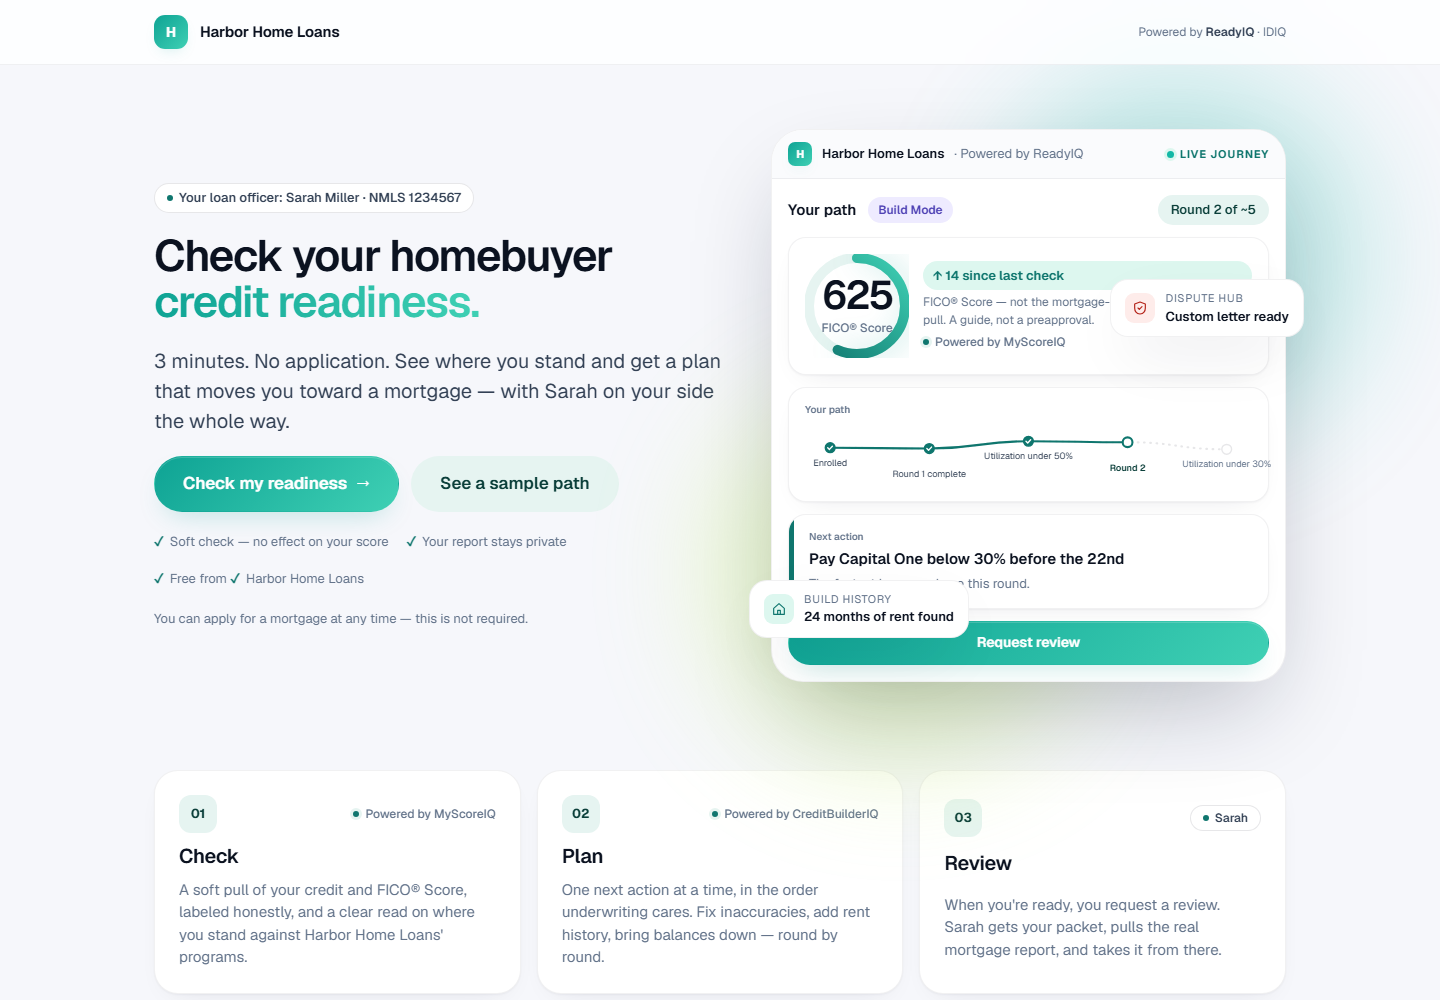
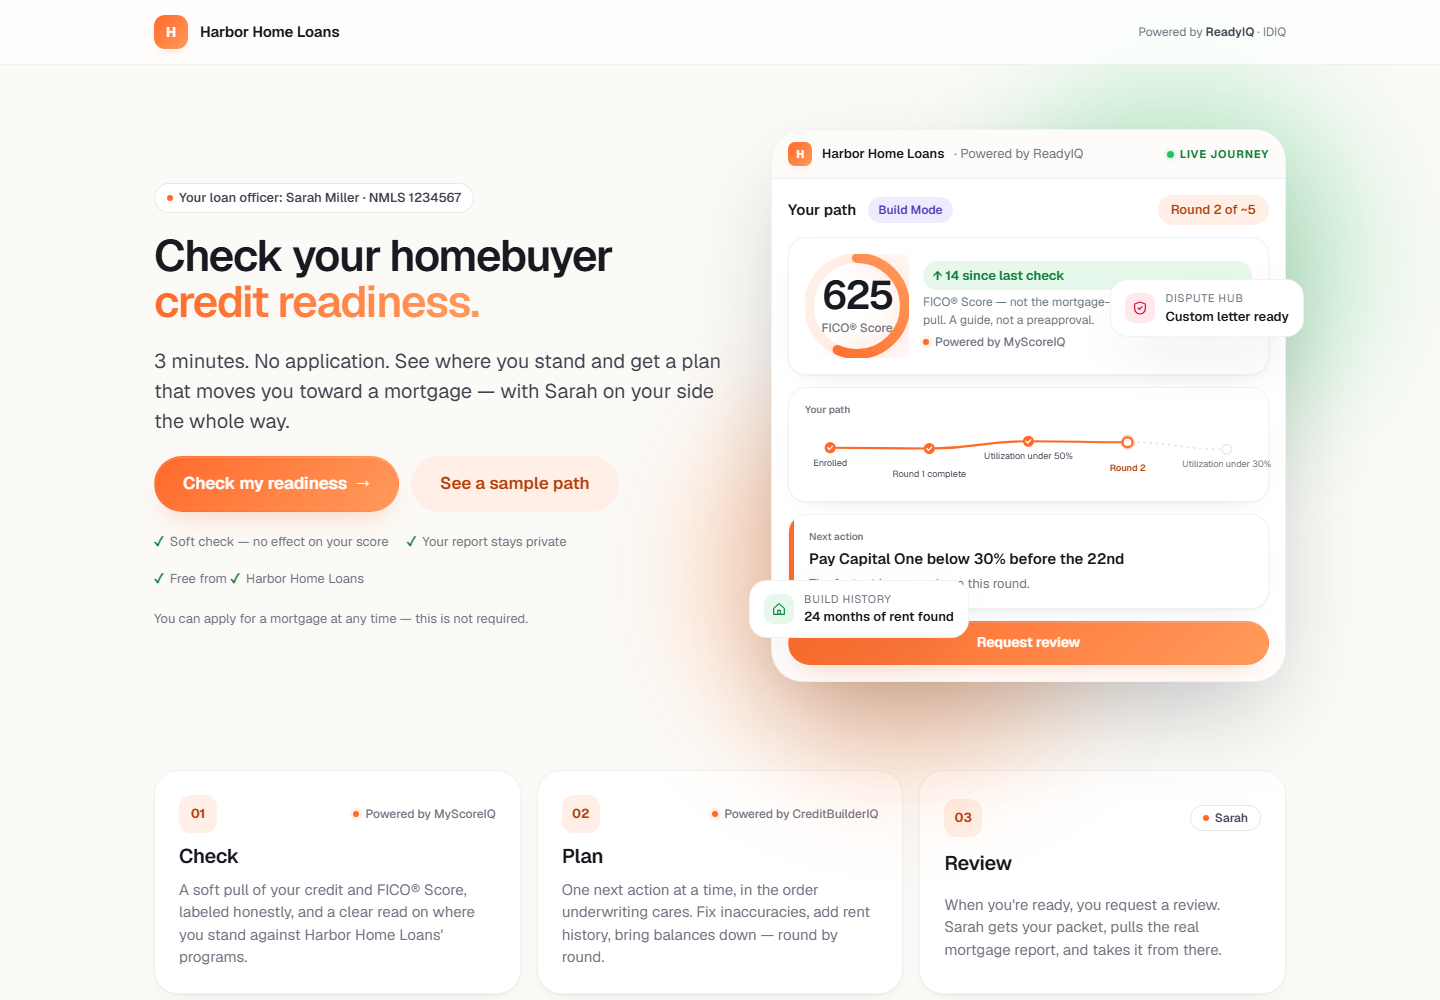
feat(design v4): terra-orange brand with gradient, warm white canvas, charcoal ink + dark sections, bright green positive accent, rose disputes; applyBrand sets the full brand token set

diff --git a/site/index.html b/site/index.html
@@ -114,9 +114,9 @@
     </div>
     <div class="stage">
       <div class="platform" aria-hidden="true">
-        <div class="platform-bar"><span class="brand-mark" style="background:#0F766E">H</span><b style="color:var(--ink)">Harbor Home Loans</b><span class="platform-live">Live journey</span></div>
+        <div class="platform-bar"><span class="brand-mark" style="background:#FF6A2B">H</span><b style="color:var(--ink)">Harbor Home Loans</b><span class="platform-live">Live journey</span></div>
         <div class="platform-body">
-          <div class="platform-context"><span class="avatar" style="background:#E1F2EE;color:#0B3F3A">MD</span><div><small>Your path</small><b>Maria Delgado</b><div class="small muted">Invited by Sarah Miller · NMLS 1234567</div></div><span class="badge badge-build">Build Mode</span></div>
+          <div class="platform-context"><span class="avatar" style="background:#FFEFE6;color:#B4400E">MD</span><div><small>Your path</small><b>Maria Delgado</b><div class="small muted">Invited by Sarah Miller · NMLS 1234567</div></div><span class="badge badge-build">Build Mode</span></div>
           <div class="card card-pad" style="padding:14px;display:grid;grid-template-columns:auto 1fr;gap:14px;align-items:center"><div id="hero-ring"></div><div class="stack-1"><span class="number-delta up">↑ 14 since last check</span><p class="number-caption" style="font-size:12px">FICO® Score — not the mortgage-industry version lenders pull. A guide, not a preapproval.</p><span class="engine-tag">Powered by MyScoreIQ</span></div></div>
           <div class="grid-2" style="gap:10px">
             <div class="card card-pad" style="padding:12px 14px;display:grid;gap:4px"><span class="eyebrow" style="font-size:10px">Dispute Hub</span><b>Duplicate collection</b><span class="small muted">Custom letter ready · Experian + TransUnion</span><span class="pill pill-draft" style="justify-self:start">draft</span></div>
@@ -124,7 +124,7 @@
           </div>
           <div class="card card-pad" style="padding:12px 14px"><span class="eyebrow" style="font-size:10px">Your path</span><div id="hero-path"></div></div>
         </div>
-        <div class="platform-return"><span class="avatar" style="background:#0F766E;color:#fff">SM</span><div><small>Original LO protected</small><b>Milestones route back to Sarah Miller</b></div><span class="chip"><span class="dot"></span>ReadyIQ → Total Expert</span></div>
+        <div class="platform-return"><span class="avatar" style="background:#FF6A2B;color:#fff">SM</span><div><small>Original LO protected</small><b>Milestones route back to Sarah Miller</b></div><span class="chip"><span class="dot"></span>ReadyIQ → Total Expert</span></div>
       </div>
       <div class="float-label float-a"><i class="tone-coral"><svg viewBox="0 0 24 24" width="16" height="16" fill="none" stroke="currentColor" stroke-width="1.75" stroke-linecap="round" stroke-linejoin="round"><path d="M12 3l8 3v6c0 5-3.5 8.5-8 9-4.5-.5-8-4-8-9V6l8-3zM9 12l2 2 4-4"/></svg></i><div><small>Dispute Hub</small><b>Custom letter ready</b></div></div>
       <div class="float-label float-b"><i class="tone-mint"><svg viewBox="0 0 24 24" width="16" height="16" fill="none" stroke="currentColor" stroke-width="1.75" stroke-linecap="round" stroke-linejoin="round"><path d="M4 11l8-7 8 7v9H4z M10 20v-6h4v6"/></svg></i><div><small>Build history</small><b>24 months of rent found</b></div></div>
@@ -176,12 +176,12 @@
   <div class="stack-4"><p class="kicker accent">The consumer experience</p><h2 class="h1">Your invitation. Your brand. <em>Their private path forward.</em></h2><p class="lead">Consumers arrive through your website or a personal link, complete their own permissioned check in three screens, and use a lender-branded portal to dispute, build, and track — until they ask their loan officer for a review.</p>
     <div class="row wrap"><a class="btn btn-primary" href="check/?c=harbor-smiller">Open a personal invitation <span class="arrow">→</span></a><a class="btn btn-outline" href="portal/">Open the portal</a></div></div>
   <div class="phone" aria-hidden="true">
-    <div class="row-between"><span class="row" style="gap:8px"><span class="brand-mark" style="width:22px;height:22px;font-size:11px;background:#0F766E">H</span><b class="small">Harbor Home Loans</b></span><span class="small muted">Powered by ReadyIQ</span></div>
+    <div class="row-between"><span class="row" style="gap:8px"><span class="brand-mark" style="width:22px;height:22px;font-size:11px;background:#FF6A2B">H</span><b class="small">Harbor Home Loans</b></span><span class="small muted">Powered by ReadyIQ</span></div>
     <span class="chip chip-round" style="justify-self:start">Personal invitation · Sarah Miller</span>
     <h3 class="h3">Sarah invited you to check your credit readiness.</h3>
     <p class="small muted">See where your credit stands, get a plan, and stay connected to Sarah — without applying for anything today.</p>
     <div class="card card-pad" style="padding:12px;display:grid;grid-template-columns:auto 1fr;gap:12px;align-items:center"><div id="phone-ring"></div><div><span class="eyebrow" style="font-size:10px">Readiness snapshot</span><div class="small muted">FICO® Score · a guide, not a preapproval</div></div></div>
-    <a class="btn btn-primary btn-block" style="background:#0F766E" href="check/?c=harbor-smiller">Accept invitation →</a>
+    <a class="btn btn-primary btn-block" style="background:#FF6A2B" href="check/?c=harbor-smiller">Accept invitation →</a>
     <p class="reg-b" style="font-size:11px">You can apply for a mortgage at any time — this is not required.</p>
   </div>
 </div></section>

diff --git a/site/assets/css/tokens.css b/site/assets/css/tokens.css
@@ -1,35 +1,35 @@
-/* ReadyIQ 2 — design tokens v3 ("new gen"): near-white canvas, vivid brand, gradient accents, soft depth.
+/* ReadyIQ 2 — design tokens v4: warm white canvas, charcoal ink, terra-orange brand with gradient, bright green positive accent, rose for disputes.
    Two layers on one system: default = ReadyIQ layer; [data-brand=harbor] = the sample lender (consumer pages). */
 :root {
   /* neutrals — cool, not green */
-  --canvas: #F6F7FB; --surface: #FFFFFF; --surface-2: #FAFBFD;
-  --ink: #0B1220; --ink-2: #334155; --ink-3: #64748B; --ink-4: #94A3B8;
-  --line: rgba(15, 23, 42, .10); --line-2: rgba(15, 23, 42, .06);
+  --canvas: #FBFAF7; --surface: #FFFFFF; --surface-2: #FDFCFA;
+  --ink: #171A20; --ink-2: #3E4350; --ink-3: #6F7581; --ink-4: #9CA1AB;
+  --line: rgba(23, 26, 32, .10); --line-2: rgba(23, 26, 32, .06);
   --paper: var(--canvas); --paper-2: var(--surface-2); --white: #FFFFFF;
 
   /* ReadyIQ brand */
-  --navy: #0B1220; --deep: #070B14; --slate: #111A2E;
-  --lime: #C8F36D; --lime-2: #E4FF9C; --lime-ink: #1E3A0A;
-  --mint: #DDF7EF; --teal: #14B8A6; --teal-ink: #0F766E;
-  --purple: #7C6CF6; --purple-soft: #EEEBFF;
-  --coral: #F97066; --coral-soft: #FEECEA;
-  --gold: #F5B84B; --gold-soft: #FEF3DC;
+  --navy: #17141A; --deep: #0F0D12; --slate: #23202A;
+  --lime: #FF7A2E; --lime-2: #FFB067; --lime-ink: #2B1206;
+  --mint: #E6F8EC; --teal: #22C55E; --teal-ink: #15803D;
+  --purple: #7C6CF6; --purple-soft: #EFEBFF;
+  --coral: #F43F5E; --coral-soft: #FFE7EB;
+  --gold: #F59E0B; --gold-soft: #FEF3DC;
   --blue: #3B82F6; --blue-soft: #E8F0FE;
   --idiq-navy: #12384F; --idiq-orange: #F27124;
 
   /* brand (overridden per lender) */
-  --brand: #0F172A; --brand-2: #334155;
-  --brand-soft: #EEF2FF; --brand-ink: #0B1220;
-  --brand-glow: rgba(15, 23, 42, .22);
-  --brand-grad: linear-gradient(135deg, #0F172A 0%, #334155 100%);
+  --brand: #F2521C; --brand-2: #FF8A3D;
+  --brand-soft: #FFEDE3; --brand-ink: #9A2F08;
+  --brand-glow: rgba(242, 82, 28, .32);
+  --brand-grad: linear-gradient(135deg, #F2521C 0%, #FF8A3D 100%);
   --accent: var(--lime); --accent-2: var(--lime-2); --accent-ink: var(--lime-ink);
   --accent-grad: linear-gradient(135deg, var(--lime) 0%, var(--lime-2) 100%);
-  --text-grad: linear-gradient(90deg, #C8F36D 0%, #7DE2C8 100%);
+  --text-grad: linear-gradient(90deg, #FF7A2E 0%, #FFB067 100%);
 
   /* semantic */
-  --success: #0F766E; --success-soft: #DDF7EF;
+  --success: #15803D; --success-soft: #E6F8EC;
   --warn: #B45309; --warn-soft: #FEF3DC;
-  --danger: #B42318; --danger-soft: #FEECEA;
+  --danger: #BE123C; --danger-soft: #FFE7EB;
   --info: #1D4ED8; --info-soft: #E8F0FE;
 
   /* type */
@@ -41,10 +41,10 @@
   --sp-1: 4px; --sp-2: 8px; --sp-3: 12px; --sp-4: 16px; --sp-5: 20px; --sp-6: 24px;
   --sp-8: 32px; --sp-10: 40px; --sp-12: 48px; --sp-16: 64px; --sp-20: 80px; --sp-24: 96px;
   --r-1: 14px; --r-2: 18px; --r-3: 24px; --r-4: 32px; --r-pill: 999px;
-  --sh-1: 0 1px 2px rgba(15, 23, 42, .04), 0 1px 1px rgba(15, 23, 42, .02);
-  --sh-2: 0 12px 32px -12px rgba(15, 23, 42, .12);
-  --sh-3: 0 24px 64px -20px rgba(15, 23, 42, .18);
-  --sh-4: 0 40px 100px -24px rgba(15, 23, 42, .28);
+  --sh-1: 0 1px 2px rgba(23, 26, 32, .04), 0 1px 1px rgba(23, 26, 32, .02);
+  --sh-2: 0 12px 32px -12px rgba(23, 26, 32, .12);
+  --sh-3: 0 24px 64px -20px rgba(23, 26, 32, .18);
+  --sh-4: 0 40px 100px -24px rgba(23, 26, 32, .28);
 
   /* motion */
   --ease: cubic-bezier(.2, .7, .2, 1);
@@ -56,20 +56,20 @@
 
 /* the sample lender — vivid teal with a mint gradient partner */
 [data-brand="harbor"] {
-  --brand: #0EA394; --brand-2: #3FD0B4;
-  --brand-soft: #E3F8F3; --brand-ink: #085F56;
-  --brand-glow: rgba(14, 163, 148, .28);
-  --brand-grad: linear-gradient(135deg, #0EA394 0%, #3FD0B4 100%);
-  --accent: #0EA394; --accent-2: #3FD0B4; --accent-ink: #FFFFFF;
-  --accent-grad: linear-gradient(135deg, #0EA394 0%, #3FD0B4 100%);
-  --text-grad: linear-gradient(90deg, #0EA394 0%, #3FD0B4 100%);
+  --brand: #FF6A2B; --brand-2: #FF9A5C;
+  --brand-soft: #FFEFE6; --brand-ink: #B4400E;
+  --brand-glow: rgba(255, 106, 43, .34);
+  --brand-grad: linear-gradient(135deg, #FF6A2B 0%, #FF9A5C 100%);
+  --accent: #FF6A2B; --accent-2: #FF9A5C; --accent-ink: #FFFFFF;
+  --accent-grad: linear-gradient(135deg, #FF6A2B 0%, #FF9A5C 100%);
+  --text-grad: linear-gradient(90deg, #FF5A1F 0%, #FFA05C 100%);
 }
 [data-brand="readyiq"] {
-  --brand: #0F172A; --brand-2: #334155; --brand-soft: #EEF2FF; --brand-ink: #0B1220;
-  --brand-glow: rgba(15, 23, 42, .22); --brand-grad: linear-gradient(135deg, #0F172A 0%, #334155 100%);
+  --brand: #F2521C; --brand-2: #FF8A3D; --brand-soft: #FFEDE3; --brand-ink: #9A2F08;
+  --brand-glow: rgba(242, 82, 28, .32); --brand-grad: linear-gradient(135deg, #F2521C 0%, #FF8A3D 100%);
   --accent: var(--lime); --accent-2: var(--lime-2); --accent-ink: var(--lime-ink);
   --accent-grad: linear-gradient(135deg, var(--lime) 0%, var(--lime-2) 100%);
-  --text-grad: linear-gradient(90deg, #C8F36D 0%, #7DE2C8 100%);
+  --text-grad: linear-gradient(90deg, #FF7A2E 0%, #FFB067 100%);
 }
 
 @media (prefers-reduced-motion: reduce) {

diff --git a/site/assets/css/components.css b/site/assets/css/components.css
@@ -5,7 +5,7 @@
 .btn:active { transform: translateY(1px); }
 .btn-primary { background: var(--brand-grad); color: #fff; box-shadow: 0 1px 0 rgba(255,255,255,.18) inset, 0 12px 28px -12px var(--brand-glow); }
 .btn-primary:hover { filter: brightness(1.07); box-shadow: 0 14px 30px -12px var(--brand-glow); }
-.btn-accent { background: var(--accent-grad); color: var(--accent-ink); box-shadow: 0 1px 0 rgba(255,255,255,.35) inset, 0 12px 28px -12px rgba(200, 243, 109, .55); }
+.btn-accent { background: var(--accent-grad); color: var(--accent-ink); box-shadow: 0 1px 0 rgba(255,255,255,.35) inset, 0 12px 28px -12px rgba(255, 122, 46, .45); }
 .btn-accent:hover { filter: brightness(1.04); }
 .btn-secondary { background: var(--brand-soft); color: var(--brand-ink); }
 .btn-secondary:hover { filter: brightness(.98); }
@@ -98,7 +98,7 @@ select.input { appearance: none; background-image: linear-gradient(45deg, transp
 .pill-resolved { background: var(--mint); color: var(--teal-ink); }
 .engine-tag { display: inline-flex; align-items: center; gap: 6px; font-size: var(--fs-12); color: var(--ink-3); font-weight: 500; white-space: nowrap; }
 .engine-tag::before { content: ""; width: 6px; height: 6px; border-radius: 50%; background: var(--brand); box-shadow: 0 0 0 3px var(--brand-soft); }
-.dark .engine-tag { color: rgba(255,255,255,.7); } .dark .engine-tag::before { background: var(--lime); box-shadow: 0 0 0 3px rgba(200,243,109,.2); }
+.dark .engine-tag { color: rgba(255,255,255,.7); } .dark .engine-tag::before { background: var(--lime); box-shadow: 0 0 0 3px rgba(255,122,46,.25); }
 .tone-mint { background: var(--mint); color: var(--teal-ink); } .tone-lime { background: var(--lime); color: var(--lime-ink); }
 .tone-purple { background: var(--purple-soft); color: #4F42B5; } .tone-coral { background: var(--coral-soft); color: var(--danger); }
 .tone-gold { background: var(--gold-soft); color: var(--warn); } .tone-blue { background: var(--blue-soft); color: var(--info); }
@@ -334,13 +334,13 @@ code { overflow-wrap: anywhere; }
 .bureau-pill b { font-size: var(--fs-17); font-variant-numeric: tabular-nums; }
 .path-card { display: grid; gap: 12px; }
 .path-card .path { padding: 6px 0 0; }
-.next-action-dark { background: radial-gradient(600px 300px at 100% 0%, rgba(255,255,255,.10), transparent 60%), linear-gradient(135deg, var(--brand-ink) 0%, var(--brand) 140%); color: #fff; border-color: transparent; display: grid; gap: 14px; box-shadow: 0 24px 60px -24px var(--brand-glow); }
+.next-action-dark { background: radial-gradient(700px 320px at 100% 0%, var(--brand-glow), transparent 62%), radial-gradient(400px 260px at 0% 100%, rgba(124,108,246,.18), transparent 60%), var(--navy); color: #fff; border-color: transparent; display: grid; gap: 14px; box-shadow: 0 24px 60px -24px rgba(23,20,26,.5); }
 .next-action-dark .lead { color: rgba(255,255,255,.78); }
 .next-action-dark .h2 { color: #fff; }
-.next-action-dark .engine-tag { color: rgba(255,255,255,.7); } .next-action-dark .engine-tag::before { background: var(--lime); box-shadow: 0 0 0 3px rgba(200,243,109,.2); }
+.next-action-dark .engine-tag { color: rgba(255,255,255,.7); } .next-action-dark .engine-tag::before { background: var(--lime); box-shadow: 0 0 0 3px rgba(255,122,46,.25); }
 .next-action-dark .btn-ghost { color: #fff; } .next-action-dark .btn-ghost:hover { background: rgba(255,255,255,.1); }
-.next-action-dark .btn-accent { color: var(--lime-ink); }
-.chip-accent { background: var(--lime); color: var(--lime-ink); border-color: transparent; }
+.next-action-dark .btn-accent { color: #fff; background: var(--brand-grad); }
+.chip-accent { background: var(--brand-soft); color: var(--brand-ink); border-color: transparent; }
 .toolkit .tool { display: grid; gap: 4px; padding: 16px; border-radius: var(--r-3); }
 .lo-connect .avatar-lg { background: var(--brand); color: #fff; }
 @media (max-width: 900px) {

diff --git a/site/assets/js/state.js b/site/assets/js/state.js
@@ -1,7 +1,7 @@
 // site/assets/js/state.js — pure, runs in Node (tests) and the browser (pages).
 export const TODAY = '2026-08-18';
 export const STORE_KEY = 'readyiq2:v1';
-export const FIXTURE_VERSION = 3; // bump when fixture shape changes — stale localStorage resets itself
+export const FIXTURE_VERSION = 4; // bump when fixture shape changes — stale localStorage resets itself
 export const PATHWAYS = ['ready_now', 'near_ready', 'build', 'thin', 'dispute', 'dti'];
 export const PATHWAY_LABELS = { ready_now: 'Ready Now', near_ready: 'Near Ready', build: 'Build Mode', thin: 'Thin Credit', dispute: 'Dispute Mode', dti: 'Debt Mode' };
 export const PATHWAY_BLURBS = {
@@ -19,7 +19,7 @@ const M = (label, date, state) => ({ label, date, state });
 const FIXTURES = {
   lender: {
     id: 'harbor', name: 'Harbor Home Loans', site: 'harborhomeloans.com', nmls: '1809922',
-    brand: { primary: '#0F766E', soft: '#E6F4F1', ink: '#0B3F3A' },
+    brand: { primary: '#FF6A2B', secondary: '#FF9A5C', soft: '#FFEFE6', ink: '#B4400E' },
     floors: { fha: 620, conventional: 640, dpa: 660 }, floorDefault: 640,
     programs: [{ id: 'fha', name: 'FHA', floor: 620 }, { id: 'conventional', name: 'Conventional', floor: 640 }, { id: 'dpa', name: 'Harbor Down-Payment Assist', floor: 660 }],
   },
@@ -144,7 +144,7 @@ const FIXTURES = {
     connectors: [{ id: 'zapier', name: 'Zapier', status: 'connected' }, { id: 'shape', name: 'Shape', status: 'available' }, { id: 'te', name: 'Total Expert', status: 'available' }, { id: 'encompass', name: 'Encompass', status: 'available' }],
   },
   session: { role: 'consumer', consumerId: 'maria', loId: 'sarah', partnerId: null, attribution: null },
-  v: 3,
+  v: 4,
 };
 
 const clone = (v) => (typeof structuredClone === 'function' ? structuredClone(v) : JSON.parse(JSON.stringify(v)));

diff --git a/site/assets/js/ui.js b/site/assets/js/ui.js
@@ -36,9 +36,18 @@ export const pct = (x) => (x == null ? '—' : Math.round(x * 100) + '%');
 export function applyBrand(lender) {
   const root = document.documentElement;
   root.dataset.brand = lender.id;
-  root.style.setProperty('--brand', lender.brand.primary);
-  root.style.setProperty('--brand-soft', lender.brand.soft);
-  root.style.setProperty('--brand-ink', lender.brand.ink);
+  const b = lender.brand, b2 = b.secondary || b.primary;
+  const hex = (h) => { const n = parseInt(h.slice(1), 16); return [n >> 16 & 255, n >> 8 & 255, n & 255]; };
+  const [r, g, bl] = hex(b.primary);
+  root.style.setProperty('--brand', b.primary);
+  root.style.setProperty('--brand-2', b2);
+  root.style.setProperty('--brand-soft', b.soft);
+  root.style.setProperty('--brand-ink', b.ink);
+  root.style.setProperty('--brand-glow', `rgba(${r}, ${g}, ${bl}, .34)`);
+  root.style.setProperty('--brand-grad', `linear-gradient(135deg, ${b.primary} 0%, ${b2} 100%)`);
+  root.style.setProperty('--text-grad', `linear-gradient(90deg, ${b.primary} 0%, ${b2} 100%)`);
+  root.style.setProperty('--accent', b.primary); root.style.setProperty('--accent-2', b2); root.style.setProperty('--accent-ink', '#FFFFFF');
+  root.style.setProperty('--accent-grad', `linear-gradient(135deg, ${b.primary} 0%, ${b2} 100%)`);
   qsa('[data-lender-name]').forEach((n) => (n.textContent = lender.name));
   qsa('[data-lender-mark]').forEach((n) => (n.textContent = initials(lender.name).slice(0, 1)));
 }

diff --git a/site/lo/index.html b/site/lo/index.html
@@ -30,7 +30,7 @@
   .msg-preview { display: grid; gap: 8px; }
   .bubble { max-width: 92%; padding: 12px 14px; border-radius: 18px 18px 18px 6px; background: var(--paper); font-size: var(--fs-13); line-height: 1.45; }
   .link-card { border-radius: 14px; border: 1px solid var(--line-2); overflow: hidden; background: #fff; }
-  .link-card .lc-img { height: 88px; background: linear-gradient(135deg, var(--navy), #1B4C46); display: grid; place-items: center; color: #fff; font-weight: 700; }
+  .link-card .lc-img { height: 88px; background: linear-gradient(135deg, var(--navy), #B4400E); display: grid; place-items: center; color: #fff; font-weight: 700; }
   .link-card .lc-body { padding: 10px 12px; font-size: 12px; }
   .counts { display: grid; grid-template-columns: repeat(3, 1fr); gap: 10px; }
   .counts .card { padding: 14px 16px; }

diff --git a/site/assets/css/base.css b/site/assets/css/base.css
@@ -37,7 +37,7 @@ b, strong { font-weight: 600; }
 .sr-only { position: absolute; width: 1px; height: 1px; padding: 0; margin: -1px; overflow: hidden; clip: rect(0, 0, 0, 0); white-space: nowrap; border: 0; }
 
 /* dark sections (ReadyIQ layer) */
-.dark { background: radial-gradient(1200px 600px at 80% -10%, rgba(200,243,109,.10), transparent 60%), radial-gradient(900px 500px at 0% 100%, rgba(124,108,246,.14), transparent 60%), var(--navy); color: #fff; }
+.dark { background: radial-gradient(1200px 600px at 80% -10%, rgba(255,122,46,.16), transparent 60%), radial-gradient(900px 500px at 0% 100%, rgba(124,108,246,.12), transparent 60%), var(--navy); color: #fff; }
 .dark .muted { color: rgba(255, 255, 255, .66); }
 .dark .lead { color: rgba(255, 255, 255, .78); }
 .dark a { color: var(--lime); }
